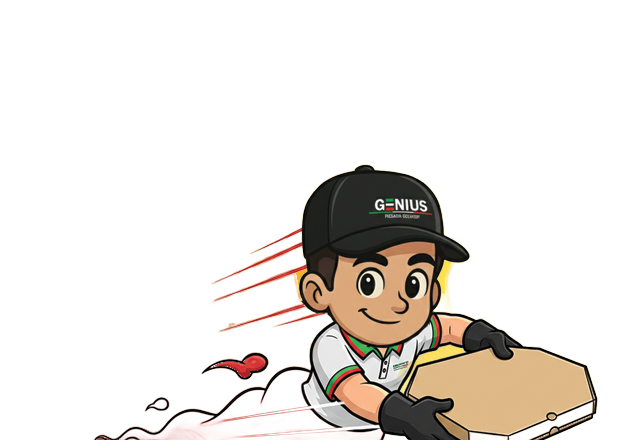
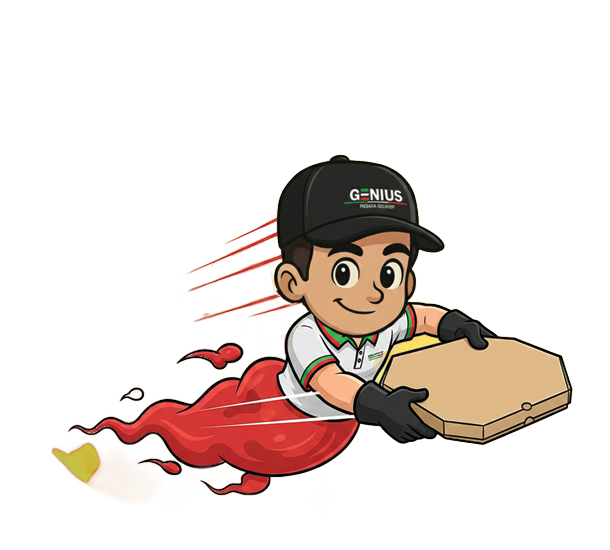
Recortes definitivos sem cortes (fatia, geninho de capa, ponta da ilha) + versiona assets para furar cache imutável

Changed region(s): [[0.0623, 0.2659, 0.9656, 1.0]]

diff --git a/site/index.html b/site/index.html
@@ -12,9 +12,9 @@
   <link rel="preconnect" href="https://fonts.googleapis.com">
   <link rel="preconnect" href="https://fonts.gstatic.com" crossorigin>
   <link href="https://fonts.googleapis.com/css2?family=Montserrat:wght@500;800&family=Lilita+One&family=Baloo+2:wght@500;600;700&display=swap" rel="stylesheet">
-  <link rel="preload" as="image" href="assets/island.webp" imagesrcset="assets/island-sm.webp 900w, assets/island.webp 1500w" imagesizes="(max-width: 640px) 88vw, 46vh" fetchpriority="high">
-  <link rel="preload" as="image" href="assets/bg.webp" media="(min-width: 721px)">
-  <link rel="preload" as="image" href="assets/bg-sm.webp" media="(max-width: 720px)">
+  <link rel="preload" as="image" href="assets/island-v2.webp" imagesrcset="assets/island-sm-v2.webp 900w, assets/island-v2.webp 1500w" imagesizes="(max-width: 640px) 88vw, 46vh" fetchpriority="high">
+  <link rel="preload" as="image" href="assets/bg-v2.webp" media="(min-width: 721px)">
+  <link rel="preload" as="image" href="assets/bg-sm-v2.webp" media="(max-width: 720px)">
   <meta name="theme-color" content="#46551f">
   <link rel="stylesheet" href="style.css">
 </head>
@@ -50,27 +50,27 @@
 
       <!-- geninho dormindo na fatia -->
       <div class="flyer flyer--sleep p reveal" data-depth=".85" style="--d:.9s">
-        <img src="assets/flyer-sleep.webp" alt="Geninho cochilando em uma fatia de pizza voadora" width="440" height="470" draggable="false">
+        <img src="assets/flyer-sleep-v2.webp" alt="Geninho cochilando em uma fatia de pizza voadora" width="440" height="452" draggable="false">
       </div>
 
       <!-- fatia flutuante -->
       <div class="flyer flyer--slice p reveal" data-depth=".95" style="--d:1.05s">
-        <img src="assets/slice.webp" alt="Fatia de pizza flutuando com queijo derretido" width="340" height="470" draggable="false">
+        <img src="assets/slice-v2.webp" alt="Fatia de pizza flutuando com queijo derretido" width="360" height="437" draggable="false">
       </div>
 
       <!-- ilha de pizza -->
       <div class="island p reveal-island" data-depth=".3" id="island">
-        <img src="assets/island.webp"
-             srcset="assets/island-sm.webp 900w, assets/island.webp 1500w"
+        <img src="assets/island-v2.webp"
+             srcset="assets/island-sm-v2.webp 900w, assets/island-v2.webp 1500w"
              sizes="(max-width: 640px) 92vw, 60vh"
              alt="Ilha flutuante feita de pizza, com torre, cachoeiras de queijo e os geninhos da Genius Pizzaria se divertindo"
-             width="1500" height="1634" draggable="false">
+             width="1500" height="1653" draggable="false">
       </div>
 
       <!-- geninho entregador voando -->
       <div class="flyer flyer--cape" aria-hidden="true">
         <div class="flyer--cape__bob">
-          <img src="assets/flyer-cape.webp" alt="" width="420" height="350" draggable="false">
+          <img src="assets/flyer-cape-v2.webp" alt="" width="470" height="423" draggable="false">
         </div>
       </div>
 

diff --git a/site/style.css b/site/style.css
@@ -56,7 +56,7 @@ img { user-select: none; -webkit-user-drag: none; }
 .bg-art {
   position: absolute;
   inset: -2.5%;
-  background: url("assets/bg.webp") center / cover no-repeat;
+  background: url("assets/bg-v2.webp") center / cover no-repeat;
   background-color: #b0501e;
 }
 
@@ -582,7 +582,7 @@ img { user-select: none; -webkit-user-drag: none; }
   .flyer--sleep { left: 1vw; top: 110px; width: clamp(80px, 21vw, 115px); }
   .flyer--slice { right: 2vw; top: 46%; width: clamp(58px, 15vw, 85px); }
 
-  .bg-art { background-image: url("assets/bg-sm.webp"); }
+  .bg-art { background-image: url("assets/bg-sm-v2.webp"); }
 
   .cta__buttons { flex-direction: column; align-items: stretch; max-width: 340px; margin-inline: auto; }
   .btn { justify-content: center; }
